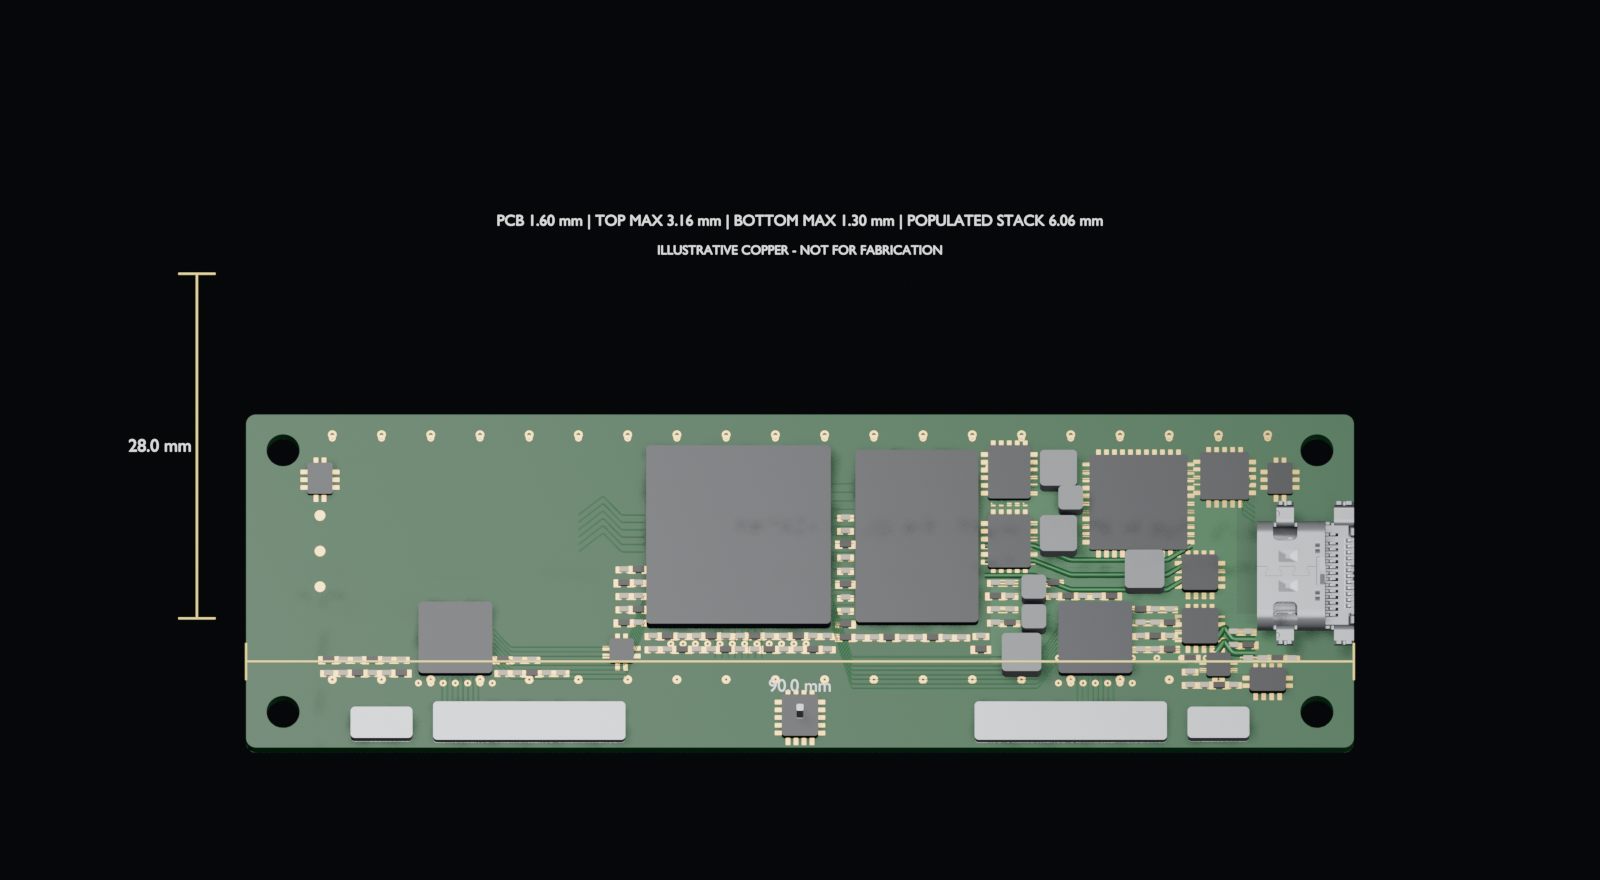
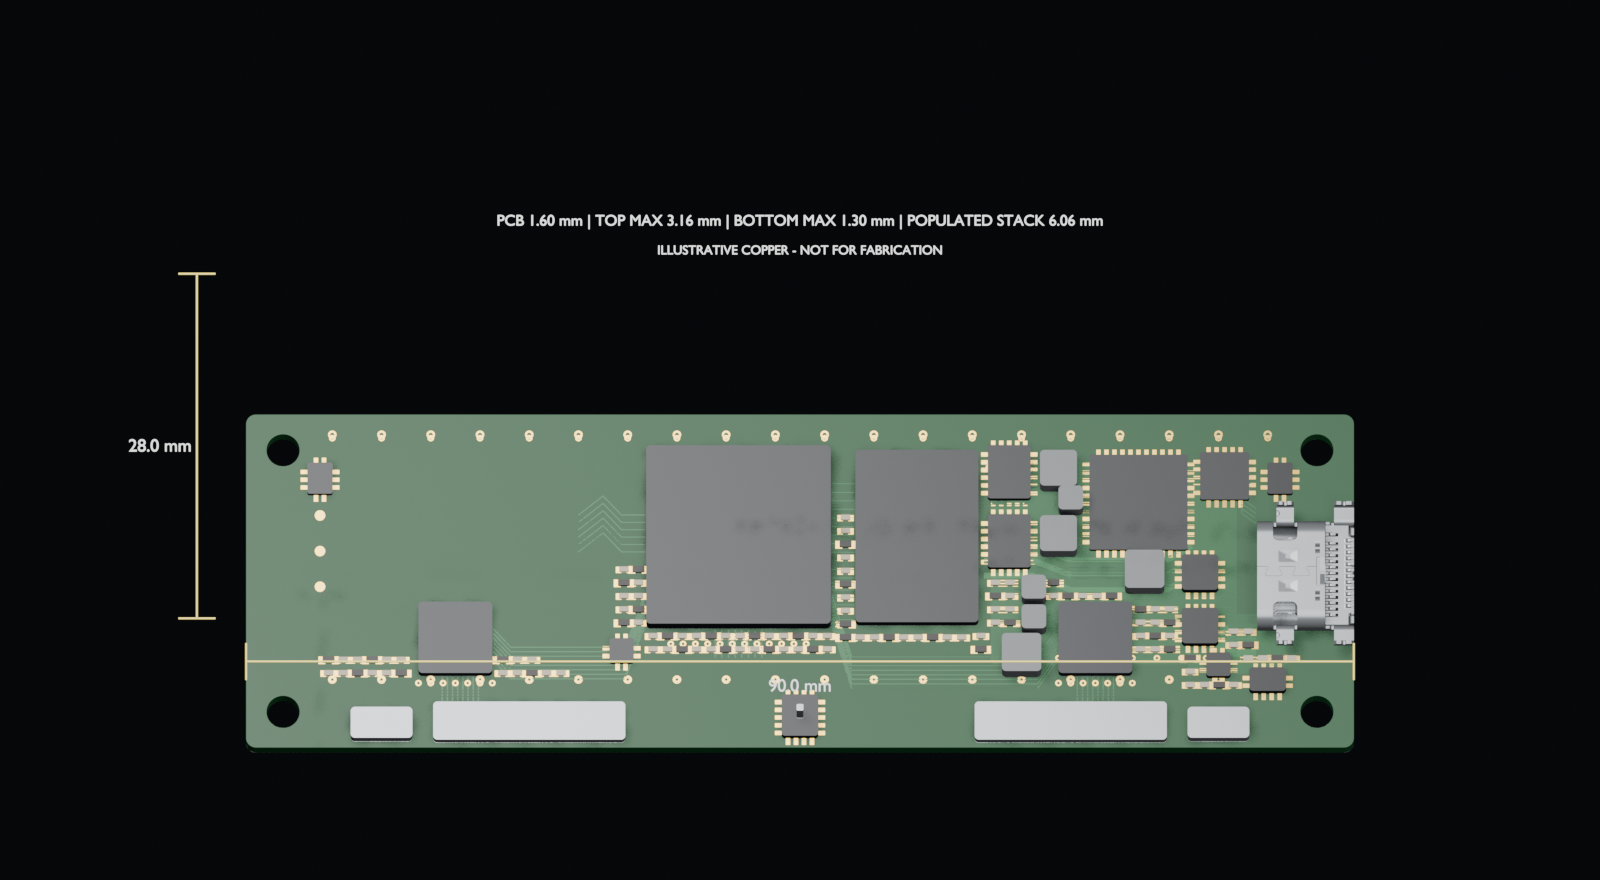
fix(hardware): flatten illustrative PCB traces

diff --git a/blender/pcba_visual_copper.py b/blender/pcba_visual_copper.py
@@ -1,8 +1,11 @@
 """Blender geometry for the shared production-intent copper artwork."""
 
+import math
+
+import bpy
 from mathutils import Vector
 
-from assembly_primitives import box, cylinder, material, routed_wire, tag, tube
+from assembly_primitives import MM, box, cylinder, material, tag, tube
 from pcba_bom import BOARD
 from pcba_visual_layout import DISCLAIMER, POURS, TEST_PADS, TRACE_GROUPS, VIAS
 
@@ -10,6 +13,48 @@ from pcba_visual_layout import DISCLAIMER, POURS, TEST_PADS, TRACE_GROUPS, VIAS
 def _surface_y(side, outward=0.0):
     direction = -1.0 if side == "TOP" else 1.0
     return BOARD["center_y"] + direction * (BOARD["thickness"] / 2 + outward)
+
+
+def _flat_trace(name, side, path, width, trace_material, collection):
+    """Build flush rectangular copper foil, never a raised wire-like curve."""
+    y = _surface_y(side, 0.010)
+    thickness = 0.018
+    vertices, faces = [], []
+    for (x0, z0), (x1, z1) in zip(path, path[1:]):
+        dx, dz = x1 - x0, z1 - z0
+        length = math.hypot(dx, dz)
+        if length < 0.01:
+            continue
+        ux, uz = dx / length, dz / length
+        px, pz = -uz * width / 2.0, ux * width / 2.0
+        overlap = min(0.06, width * 0.40)
+        ax, az = x0 - ux * overlap, z0 - uz * overlap
+        bx, bz = x1 + ux * overlap, z1 + uz * overlap
+        y0, y1 = y - thickness / 2.0, y + thickness / 2.0
+        base = len(vertices)
+        vertices.extend(
+            (x * MM, yy * MM, z * MM)
+            for x, yy, z in (
+                (ax + px, y0, az + pz), (bx + px, y0, bz + pz),
+                (bx - px, y0, bz - pz), (ax - px, y0, az - pz),
+                (ax + px, y1, az + pz), (bx + px, y1, bz + pz),
+                (bx - px, y1, bz - pz), (ax - px, y1, az - pz),
+            )
+        )
+        faces.extend(tuple(base + index for index in face) for face in (
+            (0, 1, 2, 3), (4, 7, 6, 5), (0, 4, 5, 1),
+            (1, 5, 6, 2), (2, 6, 7, 3), (4, 0, 3, 7),
+        ))
+    if not vertices:
+        return None
+    mesh = bpy.data.meshes.new(name + " Mesh")
+    mesh.from_pydata(vertices, [], faces)
+    mesh.materials.append(trace_material)
+    obj = bpy.data.objects.new(name, mesh)
+    collection.objects.link(obj)
+    obj["PCBA_Visual_Copper"] = True
+    obj["PCBA_Side"] = side
+    return obj
 
 
 def build(collection):
@@ -33,17 +78,14 @@ def build(collection):
         obj["PCBA_Side"] = side
         objects.append(tag(obj, pour["subsystem"], DISCLAIMER))
     for group in TRACE_GROUPS:
-        y = _surface_y(group["side"], 0.035)
         trace_mat = masked_power if group["width"] >= 0.30 else masked
         for index, path in enumerate(group["paths"], 1):
-            points = tuple((x, y, z) for x, z in path)
-            obj = routed_wire("Visual_{}_{}".format(group["name"], index),
-                              points, group["width"] / 2.0, 0.18,
-                              trace_mat, collection, corner_segments=4)
-            obj["PCBA_Visual_Copper"] = True
-            obj["PCBA_Side"] = group["side"]
-            obj["PCBA_Trace_Class"] = group["class"]
-            objects.append(tag(obj, group["subsystem"], DISCLAIMER))
+            name = "Visual_{}_{}".format(group["name"], index)
+            trace = _flat_trace(name, group["side"], path,
+                                group["width"], trace_mat, collection)
+            if trace:
+                trace["PCBA_Trace_Class"] = group["class"]
+                objects.append(tag(trace, group["subsystem"], DISCLAIMER))
     for index, via in enumerate(VIAS, 1):
         obj = tube("Visual_Via_{:03d}".format(index),
                    (via["x"], BOARD["center_y"], via["z"]), Vector((0, 1, 0)),
